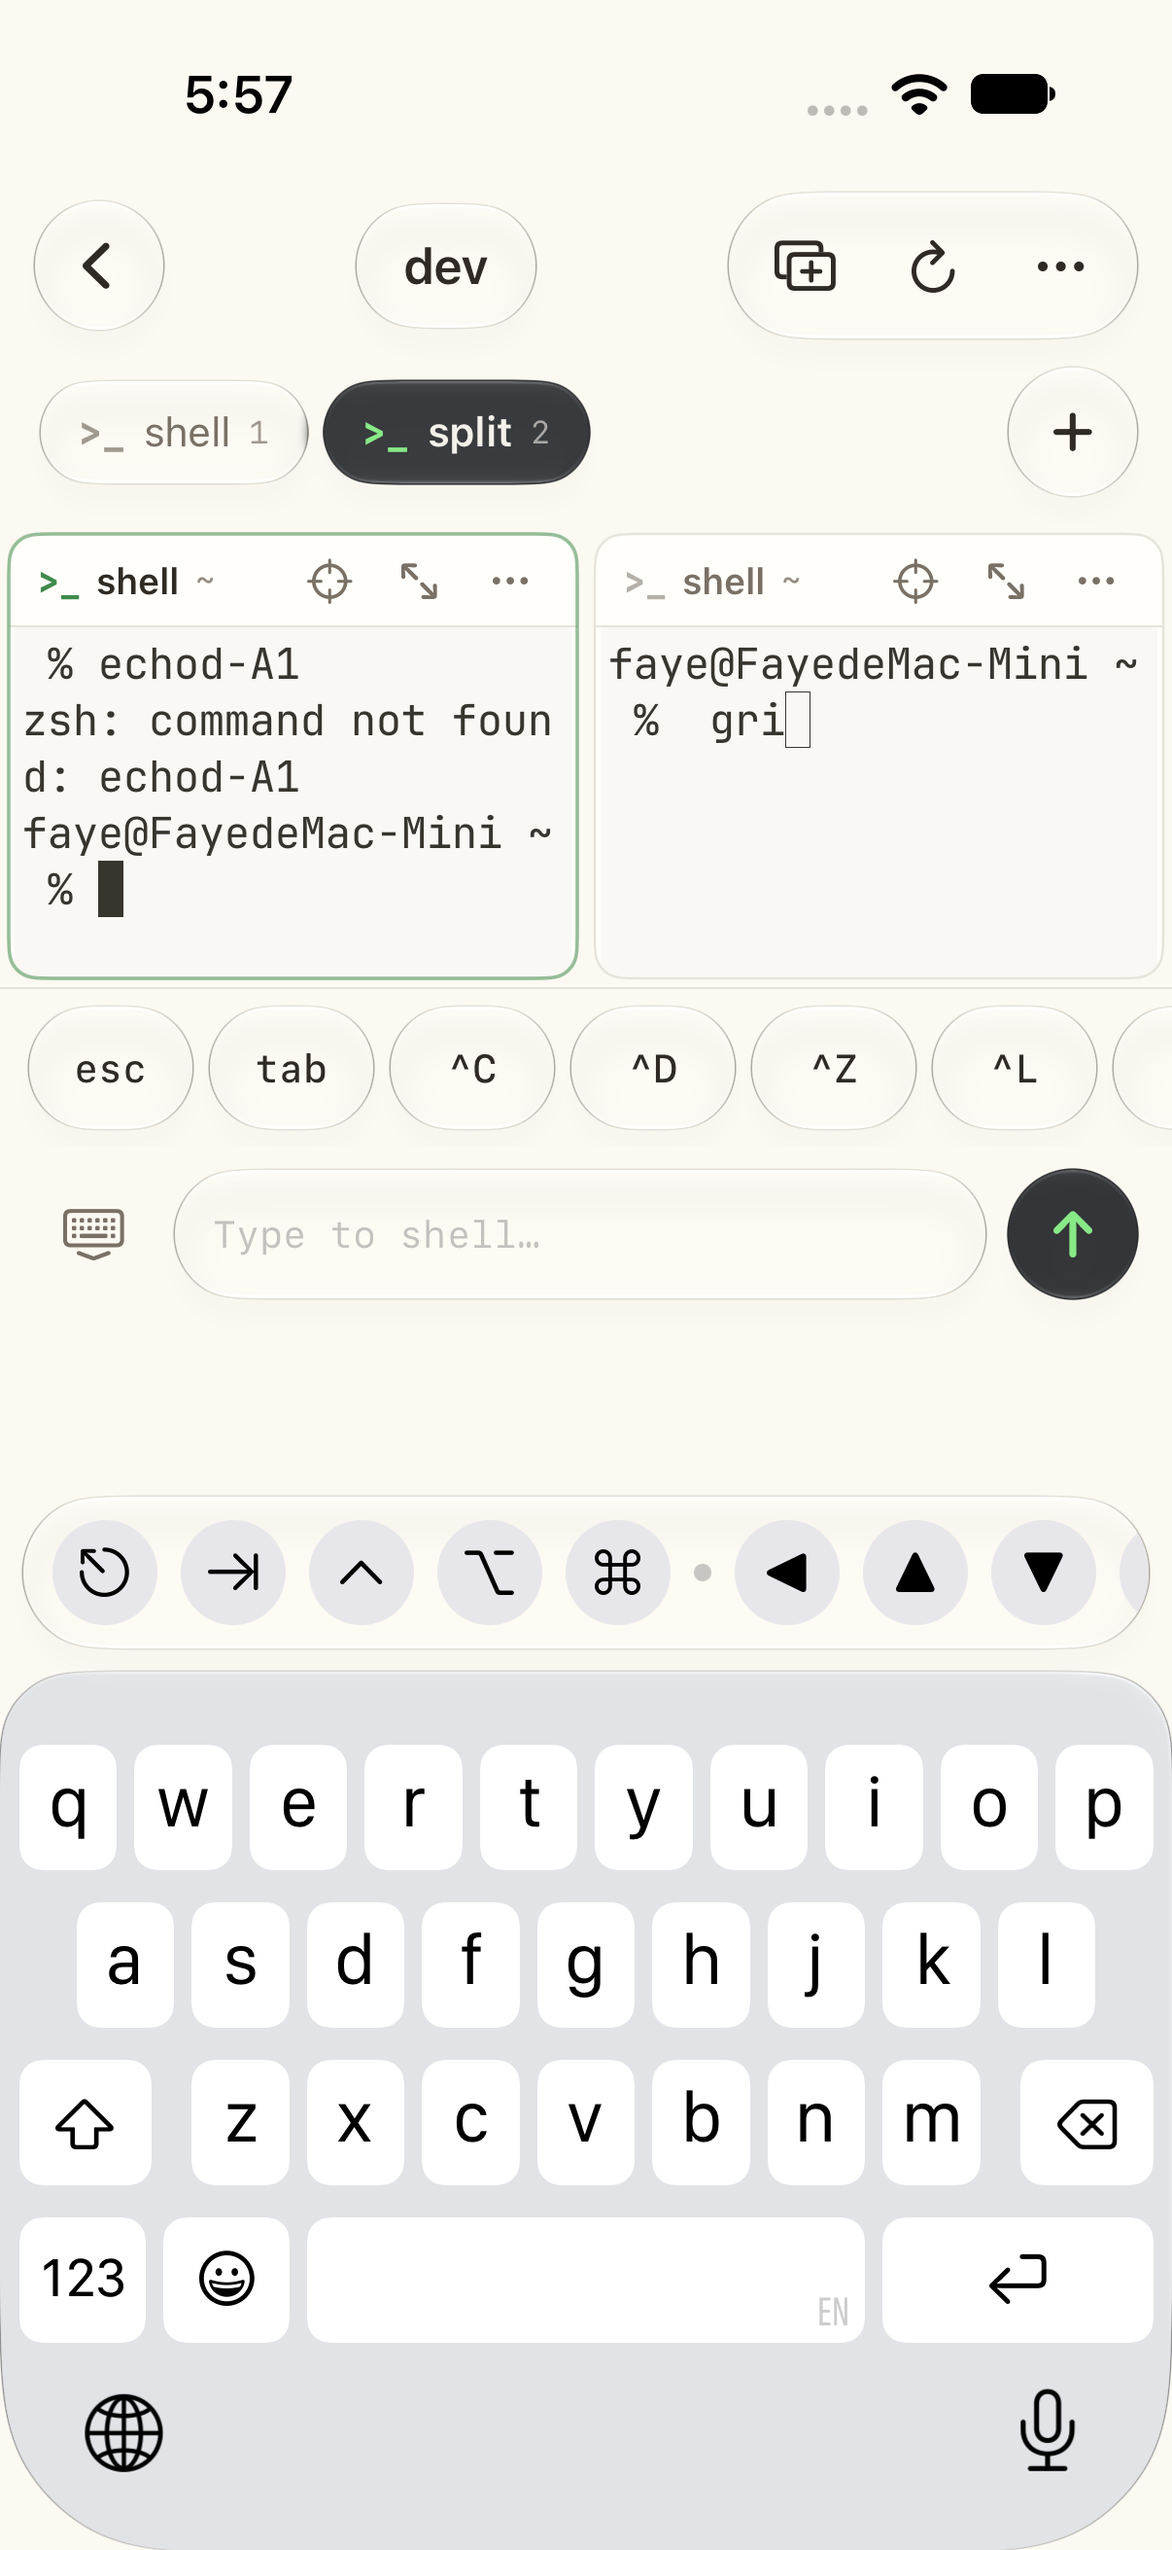
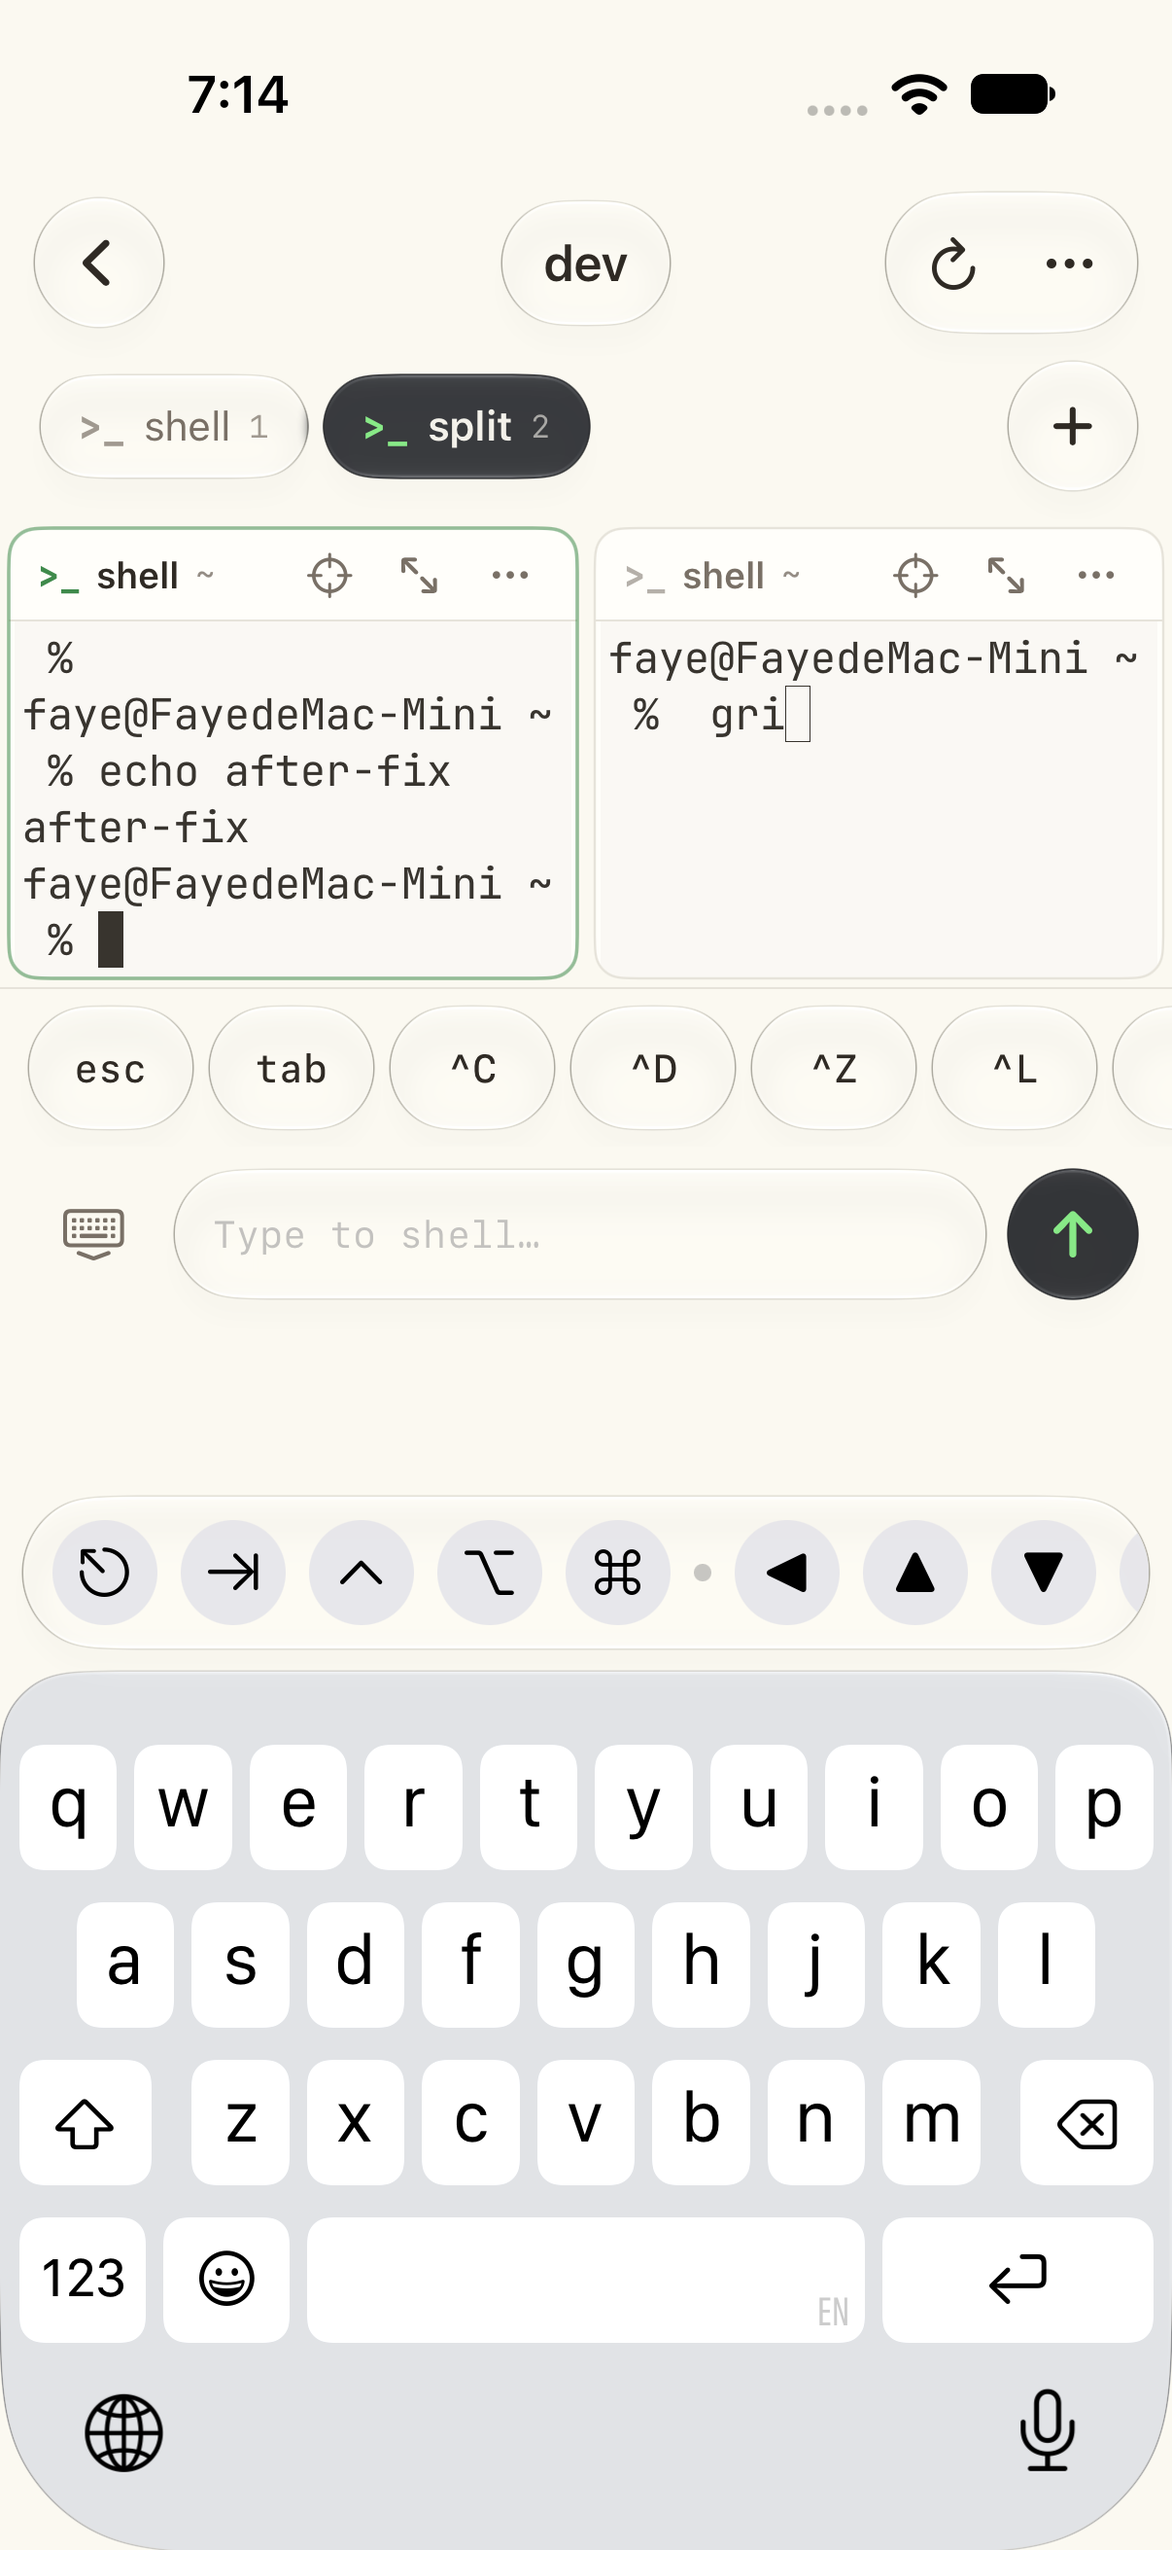
Centre the session label, add copy/paste and link opening
The top bar was three unequal cards in an HStack, so the label could never
sit centred; it is a ZStack now with only refresh and the overflow menu on
the right, since new window already has a + on the tab strip.

The pane menu gained Copy (reads libghostty's selection) and Paste (through
the surface, so bracketed paste survives), hyperlinks open via UIApplication,
and the key row's esc/tab/ctrl/arrow keys go through libghostty's encoder
instead of hand-written CSI.

diff --git a/RexRemote/Views/SessionScreen.swift b/RexRemote/Views/SessionScreen.swift
@@ -83,66 +83,66 @@ struct SessionScreen: View {
     /// of a full-width bar, so the paper stays visible between them.
     private var topBar: some View {
         GlassEffectContainer(spacing: 10) {
-        HStack(spacing: 10) {
-            Button {
-                dismiss()
-            } label: {
-                Image(systemName: "chevron.left")
-                    .font(.system(size: 18, weight: .semibold))
+            // The label is centred against the screen, not against the two
+            // clusters, so a narrow action strip is what actually centres it.
+            ZStack {
+                Text(view?.label ?? session.label)
+                    .font(.system(size: 17, weight: .semibold))
                     .foregroundStyle(RexTheme.ink)
-                    .frame(width: 44, height: 44)
-                    .glassEffect(RexTheme.glass(interactive: true), in: .circle)
-            }
-            .buttonStyle(.plain)
-            .accessibilityIdentifier("backButton")
+                    .lineLimit(1)
+                    .minimumScaleFactor(0.75)
+                    .padding(.horizontal, 14)
+                    .padding(.vertical, 11)
+                    .glassEffect(RexTheme.glass(), in: .capsule)
+                    .padding(.horizontal, 74)
 
-            Spacer(minLength: 0)
-
-            Text(view?.label ?? session.label)
-                .font(.system(size: 17, weight: .semibold))
-                .foregroundStyle(RexTheme.ink)
-                .lineLimit(1)
-                .padding(.horizontal, 16)
-                .padding(.vertical, 11)
-                .glassEffect(RexTheme.glass(), in: .capsule)
-
-            Spacer(minLength: 0)
-
-            HStack(spacing: 0) {
-                Button {
-                    Task { await store.newWindow() }
-                } label: {
-                    glyph("plus.rectangle.on.rectangle")
-                }
-                .accessibilityIdentifier("newTabButton")
-                Button {
-                    Task { await store.refreshView() }
-                } label: {
-                    glyph("arrow.clockwise")
-                }
-                .accessibilityIdentifier("refreshButton")
-                Menu {
-                    Button("New window") { Task { await store.newWindow() } }
-                    if let window {
-                        Button("Rename window…") {
-                            renamingWindowID = window.id
-                            renameText = window.label
-                        }
-                        Button("Close window", role: .destructive) {
-                            Task { await store.closeWindow(window.id) }
-                        }
+                HStack(spacing: 10) {
+                    Button {
+                        dismiss()
+                    } label: {
+                        Image(systemName: "chevron.left")
+                            .font(.system(size: 18, weight: .semibold))
+                            .foregroundStyle(RexTheme.ink)
+                            .frame(width: 44, height: 44)
+                            .glassEffect(RexTheme.glass(interactive: true), in: .circle)
                     }
-                    Divider()
-                    Button("Disconnect", role: .destructive) { store.disconnect() }
-                } label: {
-                    glyph("ellipsis")
+                    .buttonStyle(.plain)
+                    .accessibilityIdentifier("backButton")
+
+                    Spacer(minLength: 0)
+
+                    // New window lives on the tab strip, so the top bar keeps
+                    // only the two things that have nowhere else to go.
+                    HStack(spacing: 0) {
+                        Button {
+                            Task { await store.refreshView() }
+                        } label: {
+                            glyph("arrow.clockwise")
+                        }
+                        .accessibilityIdentifier("refreshButton")
+                        Menu {
+                            Button("New window") { Task { await store.newWindow() } }
+                            if let window {
+                                Button("Rename window…") {
+                                    renamingWindowID = window.id
+                                    renameText = window.label
+                                }
+                                Button("Close window", role: .destructive) {
+                                    Task { await store.closeWindow(window.id) }
+                                }
+                            }
+                            Divider()
+                            Button("Disconnect", role: .destructive) { store.disconnect() }
+                        } label: {
+                            glyph("ellipsis")
+                        }
+                        .accessibilityIdentifier("sessionMenuButton")
+                    }
+                    .padding(.horizontal, 3)
+                    .padding(.vertical, 3)
+                    .glassEffect(RexTheme.glass(), in: .capsule)
                 }
-                .accessibilityIdentifier("sessionMenuButton")
             }
-            .padding(.horizontal, 4)
-            .padding(.vertical, 3)
-            .glassEffect(RexTheme.glass(), in: .capsule)
-        }
         }
         .padding(.horizontal, 12)
         .padding(.top, 4)
@@ -153,7 +153,7 @@ struct SessionScreen: View {
         Image(systemName: name)
             .font(.system(size: 17, weight: .medium))
             .foregroundStyle(RexTheme.ink)
-            .frame(width: 44, height: 44)
+            .frame(width: 40, height: 42)
             .contentShape(Rectangle())
     }
 
@@ -493,6 +493,13 @@ struct PaneContent: View {
             .buttonStyle(.plain)
             .accessibilityIdentifier("zoomPaneButton")
             Menu {
+                Button("Copy") {
+                    store.copySelection(blockID: placement.block.id)
+                }
+                Button("Paste") {
+                    store.pasteClipboard(blockID: placement.block.id)
+                }
+                Divider()
                 Button("Split right") {
                     Task { await store.split(blockID: placement.block.id, direction: "horizontal") }
                 }

diff --git a/RexRemote/Views/TerminalSurface.swift b/RexRemote/Views/TerminalSurface.swift
@@ -19,6 +19,7 @@ struct TerminalSurface: UIViewRepresentable {
             fontSize: 11,
             context: .window
         )
+        view.delegate = context.coordinator
         controller.attach(view)
         return view
     }
@@ -26,6 +27,18 @@ struct TerminalSurface: UIViewRepresentable {
     func updateUIView(_ uiView: TerminalView, context: Context) {
         if keepKeyboard, !uiView.isFirstResponder {
             uiView.becomeFirstResponder()
+        }
+    }
+
+    func makeCoordinator() -> Coordinator { Coordinator() }
+
+    /// Ghostty reports a clicked hyperlink; iOS decides what opening it means.
+    final class Coordinator: NSObject, TerminalSurfaceOpenURLDelegate {
+        func terminalDidRequestOpenURL(_ url: String, kind: TerminalOpenURLKind) {
+            guard let target = URL(string: url) else { return }
+            let allowed: Set<String> = ["http", "https", "mailto", "ssh", "ftp"]
+            guard let scheme = target.scheme?.lowercased(), allowed.contains(scheme) else { return }
+            UIApplication.shared.open(target)
         }
     }
 }
@@ -37,22 +50,25 @@ struct KeyBar: View {
     private struct Key: Identifiable {
         let id: String
         let label: String
-        let bytes: [UInt8]
+        /// A press handed to libghostty's encoder, which is the only way to get
+        /// arrows right: applications move the cursor keys into SS3 or into
+        /// ``CSI 1;<mods>`` depending on the mode they set.
+        var press: TerminalKeyPress?
+        /// Literal bytes for keys that type text rather than name a key.
+        var bytes: [UInt8] = []
     }
 
-    private static let escape: UInt8 = 0x1B
-
     private let keys: [Key] = [
-        Key(id: "esc", label: "esc", bytes: [0x1B]),
-        Key(id: "tab", label: "tab", bytes: [0x09]),
-        Key(id: "ctrl-c", label: "^C", bytes: [0x03]),
-        Key(id: "ctrl-d", label: "^D", bytes: [0x04]),
-        Key(id: "ctrl-z", label: "^Z", bytes: [0x1A]),
-        Key(id: "ctrl-l", label: "^L", bytes: [0x0C]),
-        Key(id: "up", label: "↑", bytes: [escape, 0x5B, 0x41]),
-        Key(id: "down", label: "↓", bytes: [escape, 0x5B, 0x42]),
-        Key(id: "right", label: "→", bytes: [escape, 0x5B, 0x43]),
-        Key(id: "left", label: "←", bytes: [escape, 0x5B, 0x44]),
+        Key(id: "esc", label: "esc", press: TerminalKeyPress(.escape)),
+        Key(id: "tab", label: "tab", press: TerminalKeyPress(.tab)),
+        Key(id: "ctrl-c", label: "^C", press: TerminalKeyPress(.c, modifiers: .ctrl)),
+        Key(id: "ctrl-d", label: "^D", press: TerminalKeyPress(.d, modifiers: .ctrl)),
+        Key(id: "ctrl-z", label: "^Z", press: TerminalKeyPress(.z, modifiers: .ctrl)),
+        Key(id: "ctrl-l", label: "^L", press: TerminalKeyPress(.l, modifiers: .ctrl)),
+        Key(id: "up", label: "↑", press: TerminalKeyPress(.arrowUp)),
+        Key(id: "down", label: "↓", press: TerminalKeyPress(.arrowDown)),
+        Key(id: "right", label: "→", press: TerminalKeyPress(.arrowRight)),
+        Key(id: "left", label: "←", press: TerminalKeyPress(.arrowLeft)),
         Key(id: "pipe", label: "|", bytes: Array("|".utf8)),
         Key(id: "tilde", label: "~", bytes: Array("~".utf8)),
         Key(id: "slash", label: "/", bytes: Array("/".utf8)),
@@ -64,7 +80,11 @@ struct KeyBar: View {
             HStack(spacing: 6) {
                 ForEach(keys) { key in
                     Button {
-                        controller.type(bytes: key.bytes)
+                        if let press = key.press {
+                            controller.sendKey(press)
+                        } else {
+                            controller.type(bytes: key.bytes)
+                        }
                     } label: {
                         Text(key.label)
                             .font(RexTheme.mono(13.5, weight: .medium))

diff --git a/RexRemote/Terminal/TerminalController.swift b/RexRemote/Terminal/TerminalController.swift
@@ -116,6 +116,47 @@ final class TerminalController: NSObject, ObservableObject {
         enqueue(bytes)
     }
 
+    /// Hand a key to libghostty's encoder instead of guessing bytes: only the
+    /// encoder knows whether the running application wants legacy keys, SS3 or
+    /// kitty-keyboard sequences.
+    func sendKey(_ press: TerminalKeyPress) {
+        if let surface = terminalView?.surface, surface.sendKey(press) { return }
+        if let bytes = Self.legacyBytes(for: press) { enqueue(bytes) }
+    }
+
+    /// The selection libghostty drew, if the user has one.
+    func selectedText() -> String? {
+        guard let text = terminalView?.surface?.readSelection() else { return nil }
+        return text.trimmingCharacters(in: .whitespacesAndNewlines).isEmpty ? nil : text
+    }
+
+    /// Paste through the surface so bracketed-paste mode is honoured.
+    func paste(_ text: String) {
+        guard !text.isEmpty else { return }
+        if terminalView?.surface?.paste(text: text) == true { return }
+        enqueue(Array(text.utf8))
+    }
+
+    /// What a dumb terminal would have received, for the moment before the
+    /// surface exists.
+    private static func legacyBytes(for press: TerminalKeyPress) -> [UInt8]? {
+        switch (press.key, press.modifiers) {
+        case (.escape, []): return [0x1B]
+        case (.tab, []): return [0x09]
+        case (.enter, []): return [0x0D]
+        case (.backspace, []): return [0x7F]
+        case (.arrowUp, []): return [0x1B, 0x5B, 0x41]
+        case (.arrowDown, []): return [0x1B, 0x5B, 0x42]
+        case (.arrowRight, []): return [0x1B, 0x5B, 0x43]
+        case (.arrowLeft, []): return [0x1B, 0x5B, 0x44]
+        case (.c, .ctrl): return [0x03]
+        case (.d, .ctrl): return [0x04]
+        case (.z, .ctrl): return [0x1A]
+        case (.l, .ctrl): return [0x0C]
+        default: return nil
+        }
+    }
+
     /// Keystrokes arrive faster than an RPC round trip, and every request is its
     /// own task, so sending them one by one lets them overtake each other and the
     /// shell sees the letters out of order. Coalesce a frame's worth of input

diff --git a/RexRemoteUITests/RexRemoteUITests.swift b/RexRemoteUITests/RexRemoteUITests.swift
@@ -190,6 +190,30 @@ final class RexRemoteUITests: XCTestCase {
         XCTAssertTrue(applied, "pasted address was not applied: \(String(describing: address.value))")
     }
 
+    /// Selection, pasting and link opening live behind the pane menu, so the
+    /// menu has to carry them.
+    func testPaneMenuOffersCopyAndPaste() throws {
+        let app = launchedApp()
+
+        app.buttons["connectButton"].tap()
+        let row = app.buttons.matching(NSPredicate(format: "label BEGINSWITH %@", "dev")).firstMatch
+        XCTAssertTrue(row.waitForExistence(timeout: 20), "session list never loaded")
+        row.tap()
+
+        let menu = app.buttons["paneMenuButton"].firstMatch
+        XCTAssertTrue(menu.waitForExistence(timeout: 20), "pane menu missing")
+        menu.tap()
+
+        XCTAssertTrue(app.buttons["Copy"].waitForExistence(timeout: 5), "no Copy in the pane menu")
+        XCTAssertTrue(app.buttons["Paste"].exists, "no Paste in the pane menu")
+        snapshot("15-pane-menu")
+
+        // Two "Paste" entries exist while our menu is open — ours and the
+        // system text menu's — so dismiss by tapping the page instead of pick
+        // one by name.
+        app.tap()
+    }
+
     /// Taps a text field and lets focus settle; typing into a field that is
     /// still becoming first responder drops the first keystroke.
     private func focus(_ element: XCUIElement) {

diff --git a/RexRemote/State/AppStore.swift b/RexRemote/State/AppStore.swift
@@ -1,4 +1,5 @@
 import Foundation
+import UIKit
 
 enum ConnectionState: Equatable {
     case disconnected(String?)
@@ -44,6 +45,18 @@ final class AppStore: ObservableObject {
     }
 
     func controller(for blockID: String) -> TerminalController? { controllers[blockID] }
+
+    /// Copy what libghostty has selected; the selection lives in its surface,
+    /// not in a UIKit text view.
+    func copySelection(blockID: String) {
+        guard let text = controller(for: blockID)?.selectedText() else { return }
+        UIPasteboard.general.string = text
+    }
+
+    func pasteClipboard(blockID: String) {
+        guard let text = UIPasteboard.general.string, !text.isEmpty else { return }
+        controller(for: blockID)?.paste(text)
+    }
 
     // MARK: - Connection
 

diff --git a/README.md b/README.md
@@ -185,6 +185,15 @@ prebuilt XCFramework, no Zig needed):
   ligatures, cursor shapes, selection and links are Ghostty's rather than ours.
 - The palette comes from `RexTheme.ghosttyTheme` at launch and is replaced by the
   `theme` directive the server weaves into the stream.
+- Key row presses (esc, tab, ctrl chords, arrows) go through libghostty's key
+  encoder instead of hand-written bytes, so arrows turn into SS3 or
+  `CSI 1;<mods>` sequences when the application asks for them.
+- The pane menu carries **Copy** (the selection libghostty drew) and **Paste**
+  (through the surface, so bracketed paste is honoured); hyperlinks opened in the
+  grid are handed to `UIApplication.open` by `TerminalSurface.Coordinator`.
+- The top bar is a `ZStack`: the session label is centred against the screen and
+  the trailing cluster holds only refresh and the overflow menu, because a
+  narrower cluster is what actually centres a label between two sides.
 - `GhosttySession`, `GhosttyGridView` and their tests are gone with it.
 
 Known edge: a lone `esc` from the key row leaves zle waiting for the rest of a
